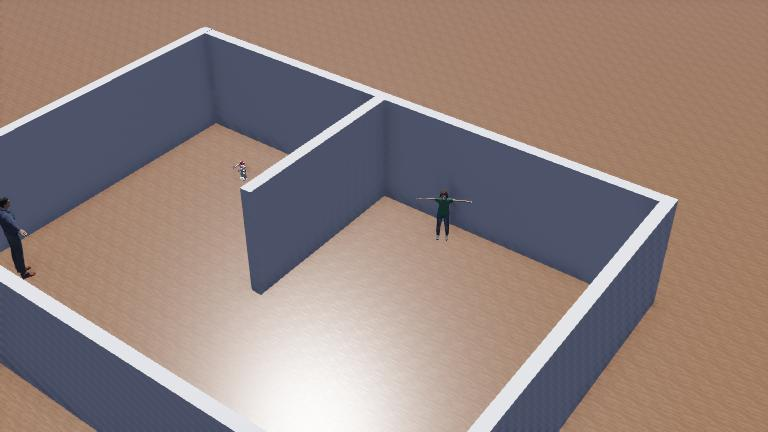
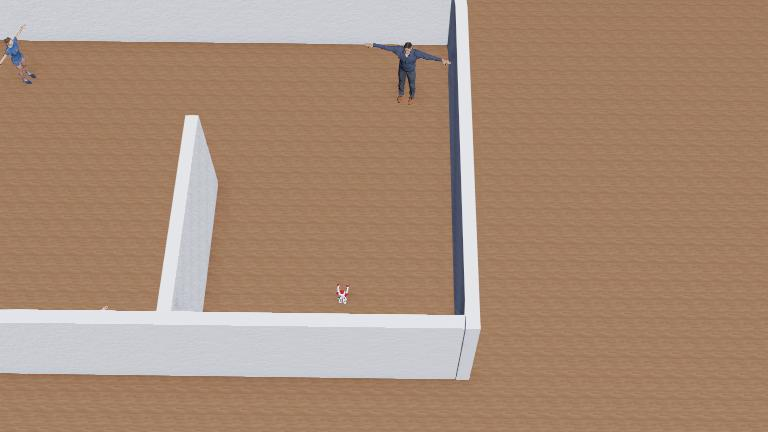
add: some texts are translated to French

diff --git a/Webots_simulation/controllers/nao_controller/human_scanner.py b/Webots_simulation/controllers/nao_controller/human_scanner.py
@@ -6,13 +6,11 @@ import math
 
 def set_robot_default_pose(robot, head_yaw, l_shoulder_pitch, r_shoulder_pitch, TIME_STEP):
     
-    print("[ACTION] Kafa sıfırlanıyor...")
     head_yaw.setPosition(0.0)
     for _ in range(20):
         if robot.step(TIME_STEP) == -1:
             break
 
-    print("[ACTION] Kollar dengeli pozisyona getiriliyor...")
     l_shoulder_pitch.setPosition(1.5)
     r_shoulder_pitch.setPosition(1.5)
     for _ in range(20):
@@ -21,7 +19,6 @@ def set_robot_default_pose(robot, head_yaw, l_shoulder_pitch, r_shoulder_pitch, 
 
 
 def find_closest_human(robot, TIME_STEP, MOTION_PATH):
-    # Cihazlar
     camera = robot.getDevice("CameraTop")
     camera.enable(4 * TIME_STEP)
     camera_fov_rad = camera.getFov()
@@ -37,15 +34,13 @@ def find_closest_human(robot, TIME_STEP, MOTION_PATH):
     head_yaw.setPosition(float('inf'))
     head_yaw.setVelocity(1.0)
 
-    # Kollar
     l_shoulder_pitch = robot.getDevice("LShoulderPitch")
     r_shoulder_pitch = robot.getDevice("RShoulderPitch")
 
-    # Motionlar
     walk_motion = Motion(MOTION_PATH + "Forwards50.motion")
     model = YOLO("yolov8n.pt")
 
-    print("[INFO] Kafa taraması ile insan aranıyor...")
+    print("[INFO] Recherche de l’humain par balayage de la tête...")
 
     detected_human = None
     found = False
@@ -97,8 +92,8 @@ def find_closest_human(robot, TIME_STEP, MOTION_PATH):
                         if distance == float('inf') or distance > 5:
                             continue
 
-                        print("İnsan kamerada " + ("SAĞDA" if relative_angle < 0 else "SOLDA"))
-                        print(f"[DETECTED] Kafa: {math.degrees(angle_rad):.1f}° | Görsel ofset: {math.degrees(relative_angle):.1f}° | Mesafe: {distance:.2f} m")
+                        print("Humain détecté sur la " + ("DROITE" if relative_angle < 0 else "GAUCHE"))
+                        print(f"[DÉTECTÉ] Tête: {math.degrees(angle_rad):.1f}° | Décalage visuel: {math.degrees(relative_angle):.1f}° | Distance: {distance:.2f} m")
 
                         detected_human = {
                             "distance": distance,
@@ -109,15 +104,15 @@ def find_closest_human(robot, TIME_STEP, MOTION_PATH):
                         break
 
     if detected_human is None:
-        print("[INFO] İnsan bulunamadı.")
+        print("[INFO] Aucun humain détecté.")
         return None
     
     set_robot_default_pose(robot, head_yaw, l_shoulder_pitch, r_shoulder_pitch, TIME_STEP)
 
-    # 🔁 Gövde dönüyor
+
     turn_angle_deg = math.degrees(detected_human["turn_angle_rad"])
-    print(f"[ACTION] Gövde {turn_angle_deg:.1f}° döndürülüyor...")
-    if abs(turn_angle_deg) >= 30:  # Daha hassas eşik
+    print(f"[ACTION] Rotation du torse de {turn_angle_deg:.1f}°...")
+    if abs(turn_angle_deg) >= 30: 
         turn_steps = round(abs(turn_angle_deg) / 40)
         for _ in range(turn_steps):
             turn_motion = Motion(
@@ -131,28 +126,26 @@ def find_closest_human(robot, TIME_STEP, MOTION_PATH):
                 if robot.step(TIME_STEP) == -1:
                     break
     else:
-        print("[ACTION] Gövde zaten hedefe dönük.")
+        print(f"[ACTION] Rotation du torse de {turn_angle_deg:.1f}°...")
 
-    print("[ACTION] Yürümeye başlanıyor...")
-    desired_distance = 2.5 # 1.0
+    desired_distance = 2.5 
     initial_distance = detected_human["distance"]
     approach_distance = max(0.0, initial_distance - desired_distance)
-    print(f"[ACTION] Hedefe toplam {approach_distance:.2f} m ilerleniyor...")
+    print(f"[ACTION] Avancer d'un total de {approach_distance:.2f} m vers la cible...")
 
     step_distance = 0.5  #0.765
     steps_needed = max(1, round(approach_distance / step_distance))
 
     for step in range(steps_needed):
-        print(f"[STEP] {step+1}/{steps_needed} adım ilerleniyor.")
+        print(f"[ÉTAPE] Avancement de l’étape {step+1}/{steps_needed}...")
 
-        # Motion nesnesini her seferinde yeniden oluştur
         walk_motion = Motion(MOTION_PATH + "Forwards50.motion")
 
         walk_motion.play()
         for _ in range(int(walk_motion.getDuration() // TIME_STEP)):
             if robot.step(TIME_STEP) == -1:
                 break
-    print(f"[INFO] {desired_distance} m kala duruldu.")
+    print(f"[INFO] Arrêt à {desired_distance} m de la cible.")
     return detected_human
 
 
@@ -170,7 +163,8 @@ def go_to_face_human(robot, detected_human, TIME_STEP, MOTION_PATH):
 
     side_motion_name = "SideStepLeft" if angle > 0 else "SideStepRight"
 
-    print(f"[PLAN] {forward_steps} adım ileri, {side_steps} adım {'sola' if angle > 0 else 'sağa'} gidilecek.")
+    print(f"[PLAN] Avancer de {forward_steps} pas et se déplacer de {side_steps} pas vers la {'gauche' if angle > 0 else 'droite'}.")
+
 
     for _ in range(side_steps):
         side_motion = Motion(MOTION_PATH + f"{side_motion_name}.motion")
@@ -233,7 +227,7 @@ def find_gap(robot, TIME_STEP, MOTION_PATH):
             break
 
     if gap_start is None or gap_end is None:
-        print("[WARN] Geçit başlangıç/bitişi tespit edilemedi.")
+        print("[AVERTISSEMENT] Impossible de détecter le début ou la fin du passage.")
         return
 
     # Geçit ortası
@@ -242,7 +236,7 @@ def find_gap(robot, TIME_STEP, MOTION_PATH):
     # Açı hesapla
     angle_rad = ((gap_index / resolution) - 0.5) * lidar_fov
     angle_deg = math.degrees(angle_rad)
-    print(f"[GAP] Geçit ortası tespit edildi! Açı: {angle_deg:.2f}°")
+    print(f"[PASSAGE] Centre du passage détecté ! Angle : {angle_deg:.2f}°")
 
     # Dönüş
     if abs(angle_deg) > 20:
@@ -252,9 +246,10 @@ def find_gap(robot, TIME_STEP, MOTION_PATH):
         for _ in range(int(turn_motion.getDuration() / TIME_STEP)):
             if robot.step(TIME_STEP) == -1:
                 return
-        print(f"[ACTION] {angle_deg:.1f}° açısına dönüldü.")
+        print(f"[ACTION] Tourné vers l’angle de {angle_deg:.1f}°.")
+
     else:
-        print("[INFO] Zaten geçit yönüne hizalı.")
+        print("[INFO] Déjà aligné vers le passage.")
 
 
 

diff --git a/Webots_simulation/controllers/nao_controller/emotion_handler.py b/Webots_simulation/controllers/nao_controller/emotion_handler.py
@@ -4,8 +4,10 @@ from deepface import DeepFace
 from collections import Counter
 import time
 from controller import Motion
+from datetime import datetime
+import os
 
-
+"""
 def analyze_emotion(duration=2, camera_index=0):
     detector_backend = "opencv"
     align = False
@@ -13,11 +15,11 @@ def analyze_emotion(duration=2, camera_index=0):
 
     cap = cv2.VideoCapture(camera_index)
     if not cap.isOpened():
-        raise Exception("Kamera açılamadı. Farklı bir indeks deneyin (0, 1, 2...)")
+        raise Exception("Impossible d’ouvrir la caméra. Essayez un autre index (0, 1, 2...)")
 
     emotions = []
     start_time = time.time()
-    print("🎥 Duygu analizi başlatıldı...")
+    print("Caméra activée, démarrage de l’analyse des émotions...")
 
     while time.time() - start_time < duration:
         ret, frame = cap.read()
@@ -41,24 +43,95 @@ def analyze_emotion(duration=2, camera_index=0):
     cv2.destroyAllWindows()
 
     if not emotions:
-        print("❌ Duygu tespit edilemedi.")
+        print("Aucune émotion n’a pu être détectée.")
         return None, []
 
     most_common = Counter(emotions).most_common(1)[0][0]
-    print(f"🎯 En çok tekrar eden duygu: {most_common}")
+    print(f"Émotion dominante détectée : {most_common}")
+
+    return most_common
+"""
+
+
+
+
+
+def analyze_emotion(duration=2, camera_index=0):
+    detector_backend = "opencv"
+    align = False
+    expand = 0
+
+    cap = cv2.VideoCapture(camera_index)
+    if not cap.isOpened():
+        raise Exception("Impossible d’ouvrir la caméra. Essayez un autre index (0, 1, 2...)")
+
+    emotions = []
+    last_frame = None
+    last_result = None
+
+    start_time = time.time()
+    print("Caméra activée, démarrage de l’analyse des émotions...")
+
+    while time.time() - start_time < duration:
+        ret, frame = cap.read()
+        if not ret:
+            continue
+
+        try:
+            result = DeepFace.analyze(img_path=frame.copy(),
+                                      actions=['emotion'],
+                                      enforce_detection=False,
+                                      detector_backend=detector_backend,
+                                      align=align,
+                                      expand_percentage=expand,
+                                      silent=True)
+            emotion = result[0]['dominant_emotion']
+            emotions.append(emotion)
+            last_result = result[0]
+            last_frame = frame.copy()
+        except:
+            continue
+
+    cap.release()
+    cv2.destroyAllWindows()
+
+    if not emotions or last_frame is None:
+        print("Aucune émotion n’a pu être détectée.")
+        return None
+
+    most_common = Counter(emotions).most_common(1)[0][0]
+    print(f"Émotion dominante détectée : {most_common}")
+
+
+    if last_result and 'region' in last_result:
+        region = last_result['region']
+        x, y, w, h = region["x"], region["y"], region["w"], region["h"]
+        cv2.rectangle(last_frame, (x, y), (x + w, y + h), (0, 255, 0), 2)
+        cv2.putText(last_frame, most_common, (x, y - 10),
+                    cv2.FONT_HERSHEY_SIMPLEX, 0.9, (50, 255, 50), 2)
+    cv2.putText(last_frame, f"Emotion: {most_common}", (10, 30),
+                cv2.FONT_HERSHEY_SIMPLEX, 0.7, (255, 255, 255), 2)
+
+
+    os.makedirs("output", exist_ok=True)
+    filename = f"output/emotion_{datetime.now().strftime('%Y%m%d_%H%M%S')}.png"
+    cv2.imwrite(filename, last_frame)
 
     return most_common
 
 
 
+
+
+
 def execute_motions(robot, motion_names, TIME_STEP, NAO_PATH):
     for name in motion_names:
-        print(f"[MOTION] {name}")
+        print(f"[MOUVEMENT] Exécution du mouvement : {name}")
         motion = Motion(NAO_PATH + f"{name}.motion")
         motion.play()
         for _ in range(int(motion.getDuration() // TIME_STEP)):
             if robot.step(TIME_STEP) == -1:
                 break
-        for _ in range(4):  # dengeleme süresi
+        for _ in range(4):  
             if robot.step(TIME_STEP) == -1:
                 break

diff --git a/Webots_simulation/controllers/nao_controller/nao_controller.py b/Webots_simulation/controllers/nao_controller/nao_controller.py
@@ -11,7 +11,6 @@ robot = Robot()
 
 detected_human = find_closest_human(robot, TIME_STEP, MOTION_PATH)
 dominant_emotion = analyze_emotion(duration=2, camera_index=0)
-print(f"[INFO] Dominant Emotion: {dominant_emotion}")
 
 dominant_emotion = "sad"
 if dominant_emotion == "sad":
@@ -21,7 +20,6 @@ if dominant_emotion == "sad":
 motion = Motion(MOTION_PATH + "/TurnLeft60.motion")
 motion.play()
 
-# Hareketin süresi kadar bekle
 for _ in range(int(motion.getDuration() / TIME_STEP)):
     if robot.step(TIME_STEP) == -1:
         break
@@ -30,7 +28,6 @@ for _ in range(int(motion.getDuration() / TIME_STEP)):
 detected_human = find_closest_human(robot, TIME_STEP, MOTION_PATH)
 if detected_human is not None:
     dominant_emotion = analyze_emotion(duration=2, camera_index=0)
-    print(f"[INFO] Dominant Emotion: {dominant_emotion}")
 else:
     find_gap(robot, TIME_STEP, MOTION_PATH)
     while (detected_human := find_closest_human(robot, TIME_STEP, MOTION_PATH)) is None:
@@ -44,7 +41,6 @@ else:
 
 
 dominant_emotion = analyze_emotion(duration=2, camera_index=0)
-print(f"[INFO] Dominant Emotion: {dominant_emotion}")
 
 dominant_emotion = "fear"
 if dominant_emotion == "fear":
@@ -54,7 +50,6 @@ if dominant_emotion == "fear":
 detected_human = find_closest_human(robot, TIME_STEP, MOTION_PATH)
 if detected_human is not None:
     dominant_emotion = analyze_emotion(duration=2, camera_index=0)
-    print(f"[INFO] Dominant Emotion: {dominant_emotion}")
     dominant_emotion = "happy"
     if dominant_emotion == "happy":
         motion = Motion(MOTION_PATH + "/Handwave.motion")
